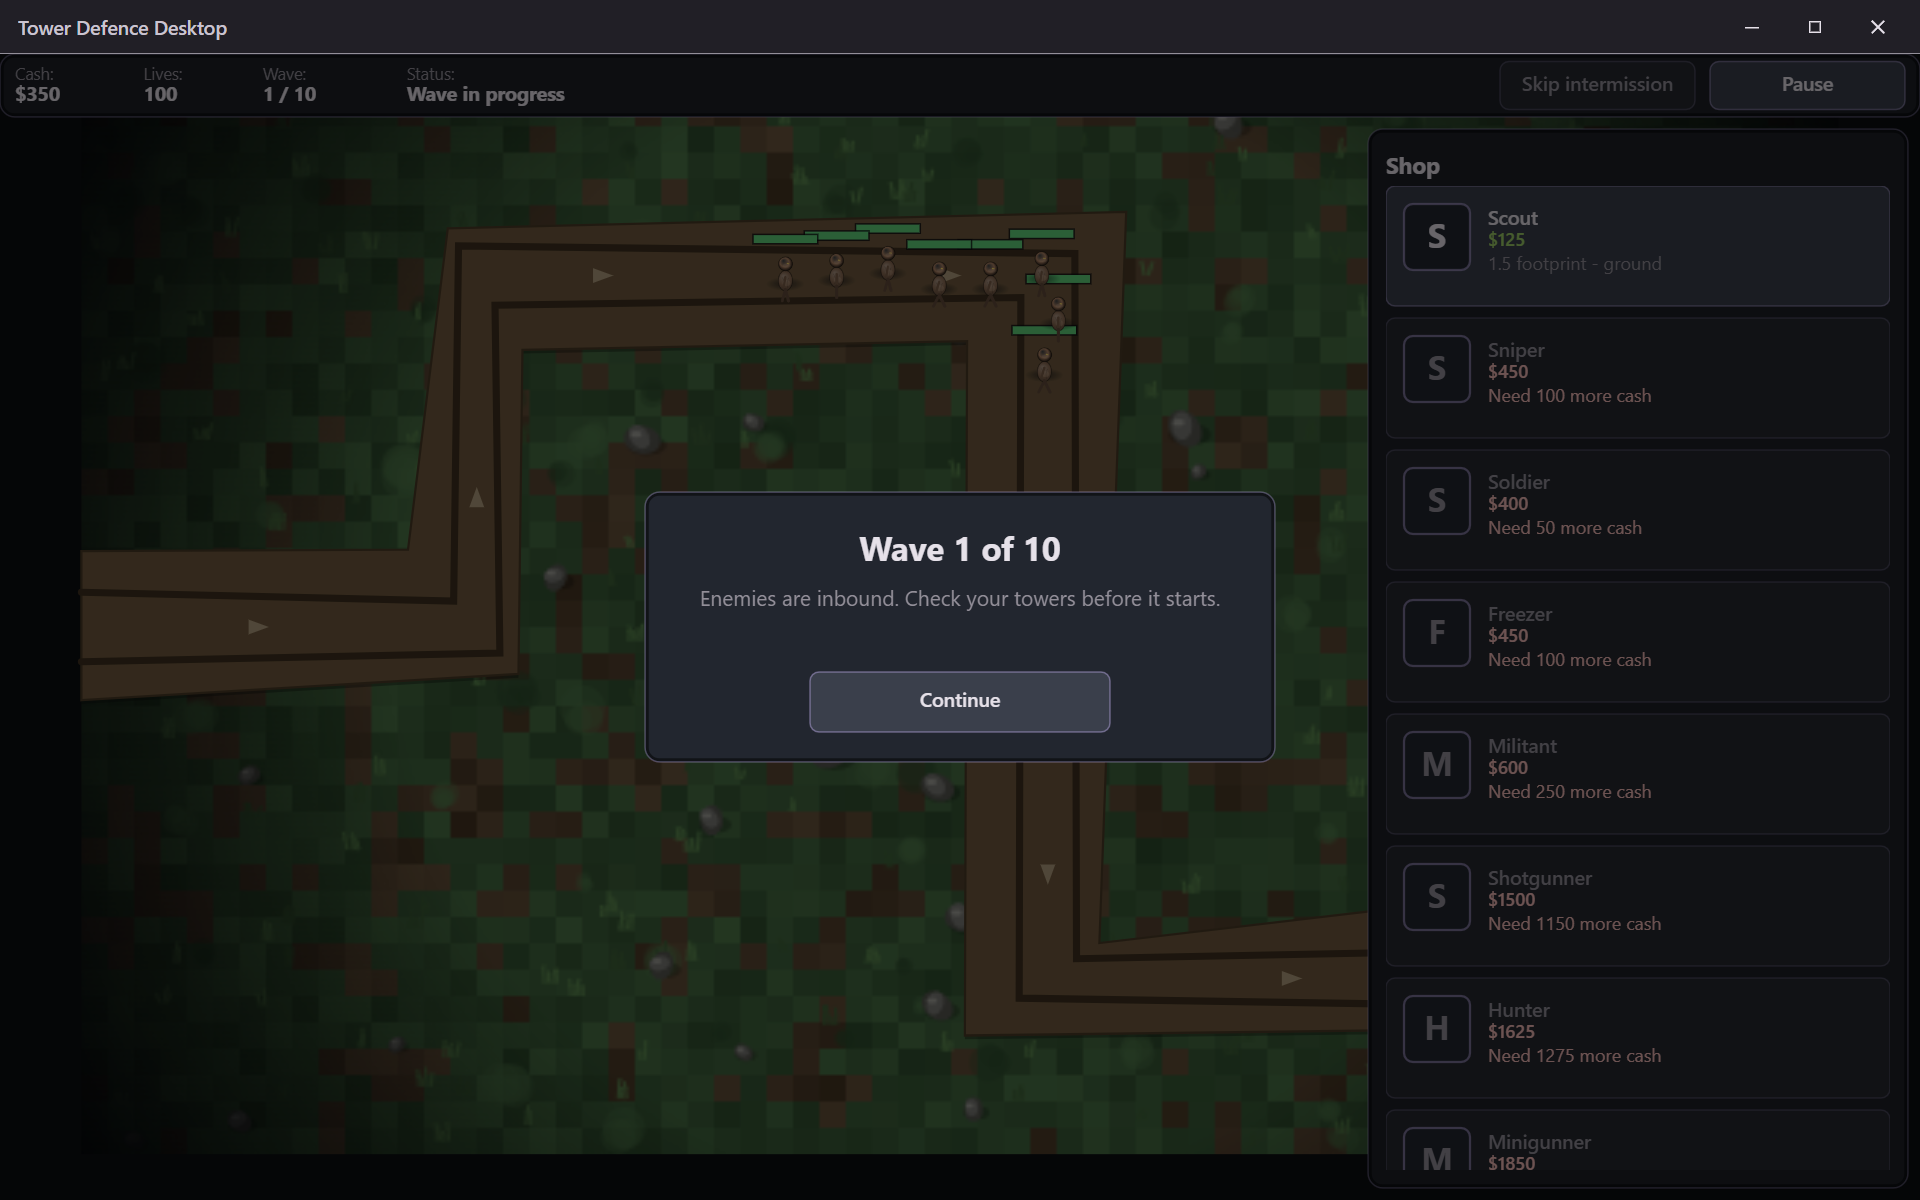
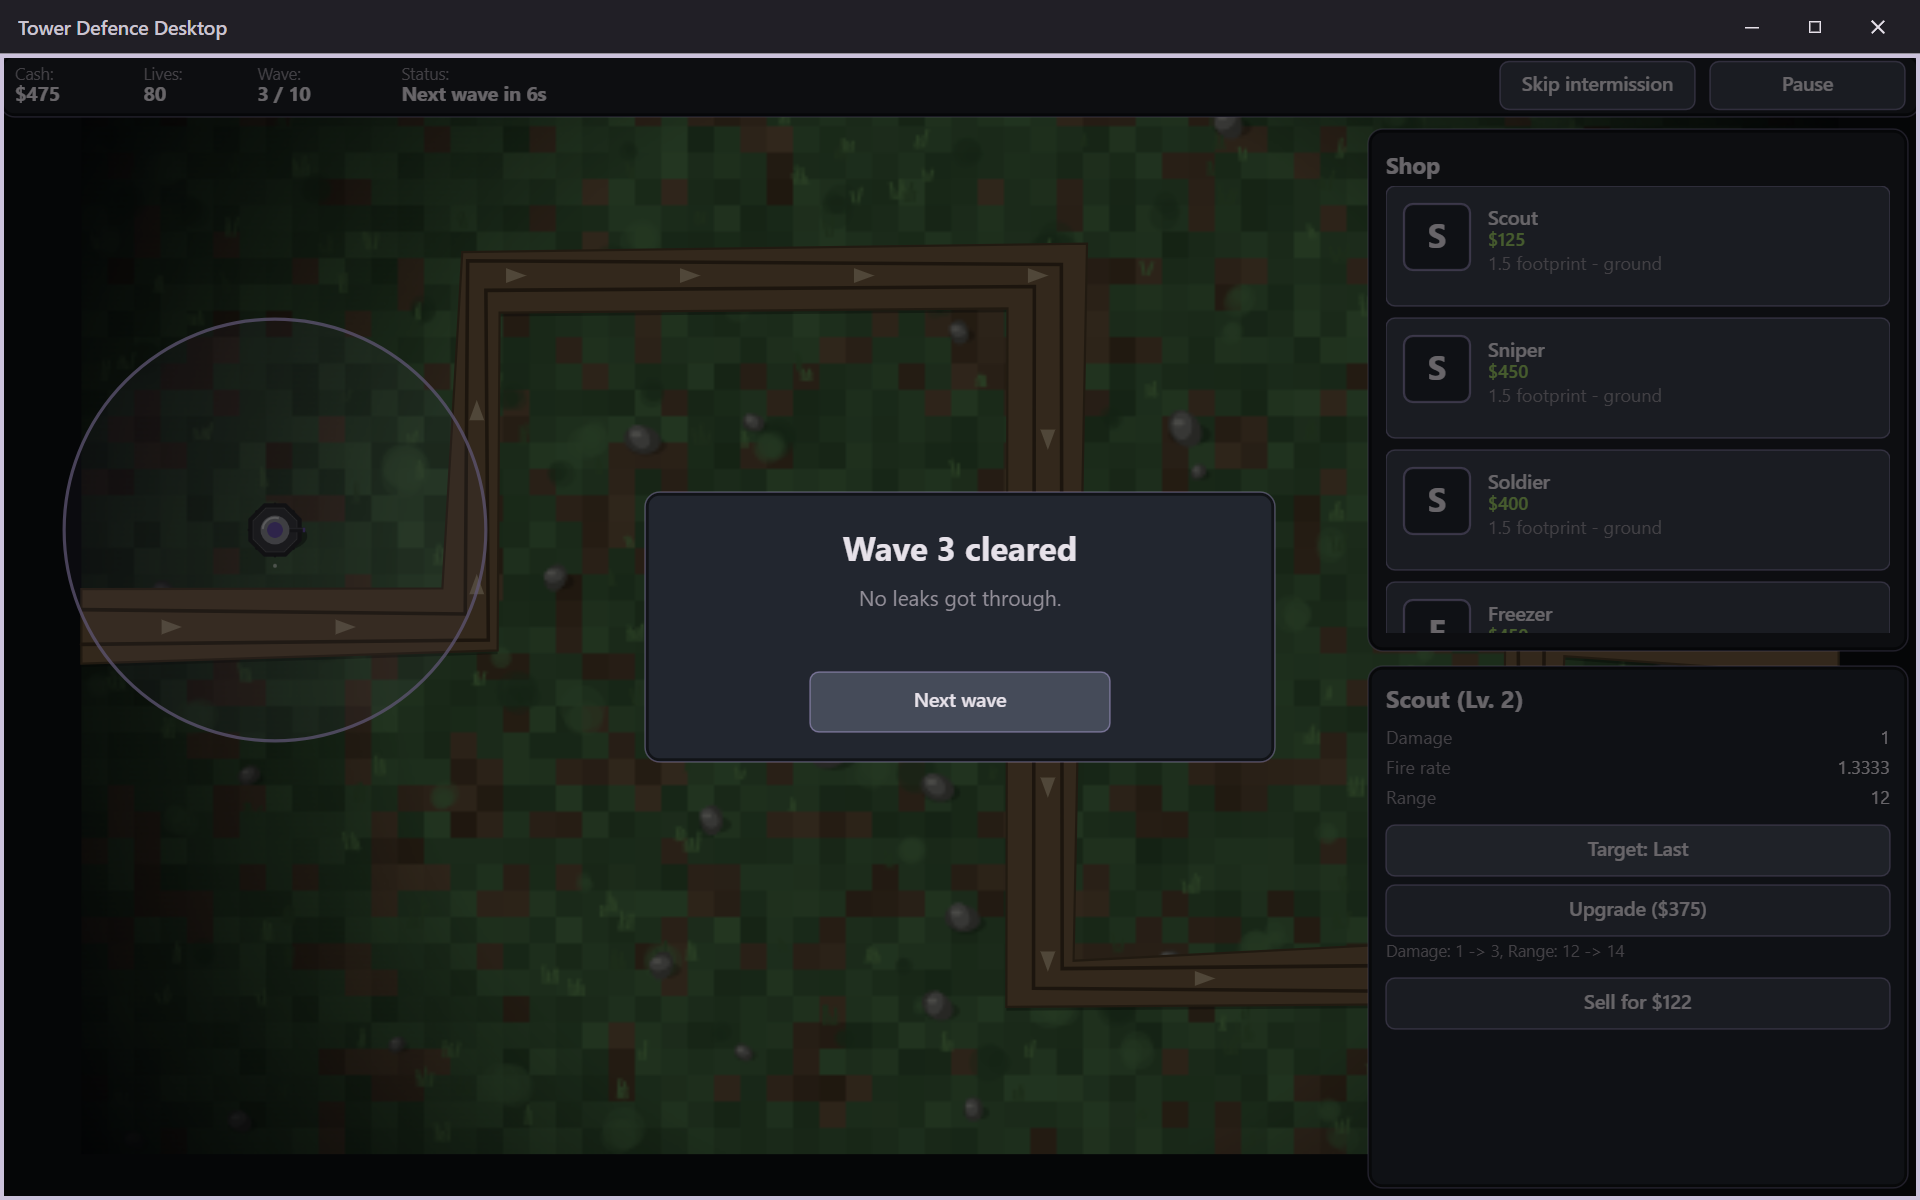
Stop the cleared-wave overlay claiming a perfect wave it did not have
It announced "No leaks got through" unconditionally, which made it right exactly
as often as the player happened to have a flawless wave. It was observed saying
it while the base had just lost twenty lives. An overlay that states something
untrue is worse than one that says nothing, because a player believes it and
stops watching their own life total.

It now reports the real number, counted as the difference between the running
total when the wave began and when it ended, so it describes the wave just
fought rather than the whole match.

One thing worth admitting rather than burying. The first check written for this
had a fallback branch for the case where the overlay copy could not be imported.
The copy could not be imported, so it took the branch, asserted nothing at all,
and passed. A check with an escape hatch finds the escape hatch. The copy is now
exported, the check imports it directly, there is no fallback, and restoring the
unconditional claim was watched turning it red.

Also verified by driving the real program rather than by reading it: placing a
tower, selecting it, upgrading it and cycling its targeting all work, the costs
and the disabled reasons are the real ones, and a modal overlay correctly
swallows a click instead of letting it fall through to the battlefield.

個「冇漏敵」嘅字係寫死嘅，所以佢啱嘅次數啱啱好等於玩家真係守得住嘅次數。
見過佢喺基地啱啱死咗二十條命嗰陣照樣咁講。而家報返真數。
仲有一件要認嘅事：第一版測試有個後備分支，結果真係行咗後備分支，
乜都冇 assert 就綠色收工。有後路嘅測試一定會行後路。

diff --git a/tests/hud/overlays.test.js b/tests/hud/overlays.test.js
@@ -2,6 +2,7 @@ import { test } from 'node:test';
 import assert from 'node:assert/strict';
 import { createFakeContext } from './fake-context.js';
 import { OverlayHud } from '../../src/render/hud/overlays.js';
+import { COPY } from '../../src/render/hud/overlays.js';
 
 const VIEWPORT = { x: 0, y: 0, width: 1200, height: 800 };
 
@@ -57,4 +58,27 @@ test('drawing kind: null after an overlay clears its accessibility control and i
   overlay.draw(ctx, VIEWPORT, { kind: null });
   assert.equal(overlay.accessibilityControls().length, 0);
   assert.equal(overlay.hitTest(600, 400), null);
+});
+
+// Added after the cleared-wave overlay announced "No leaks got through" while the base
+// had just lost twenty lives. It said it unconditionally, so it was right exactly as
+// often as the player happened to have a perfect wave.
+//
+// The first version of this check had a fallback branch for the case where the copy
+// was not importable. The copy was not importable, so it took the branch, asserted
+// nothing, and passed. There is no fallback here now: it imports the real copy or it
+// fails to run at all.
+test('the cleared-wave message reports the leaks that actually happened', () => {
+  const body = COPY.waveClear.body;
+
+  assert.match(body({ waveIndex: 1, leaked: 0, completionBonus: 0 }), /No leaks got through/);
+  assert.match(body({ waveIndex: 2, leaked: 1, completionBonus: 0 }), /One got through/);
+  assert.match(body({ waveIndex: 3, leaked: 7, completionBonus: 0 }), /7 got through/);
+  assert.doesNotMatch(
+    body({ waveIndex: 3, leaked: 7, completionBonus: 0 }),
+    /No leaks/,
+    'a wave that leaked seven may never claim none did',
+  );
+  assert.match(body({ waveIndex: 4, leaked: 2, completionBonus: 90 }), /Completion bonus: \$90/);
+  assert.match(body({ waveIndex: 4, leaked: 2, completionBonus: 90 }), /2 got through/);
 });

diff --git a/src/render/hud/overlays.js b/src/render/hud/overlays.js
@@ -19,7 +19,9 @@ const CARD_HEIGHT = 180;
 const PADDING = 20;
 const BUTTON_HEIGHT = 40;
 
-const COPY = {
+// Exported so a check can assert the exact wording without a canvas. A check that
+// cannot reach the thing it is checking finds a way to pass anyway.
+export const COPY = {
   waveStart: {
     headline: (p) => `Wave ${p.waveIndex} of ${p.totalWaves || p.waveIndex}`,
     body: () => 'Enemies are inbound. Check your towers before it starts.',
@@ -27,7 +29,20 @@ const COPY = {
   },
   waveClear: {
     headline: (p) => `Wave ${p.waveIndex} cleared`,
-    body: (p) => (p.completionBonus ? `No leaks got through. Completion bonus: $${p.completionBonus}.` : 'No leaks got through.'),
+    // Reports the real number. This line used to claim no leaks got through no matter
+    // what, and said it cheerfully while the base had just lost twenty lives. An
+    // overlay that states something untrue is worse than one that says nothing,
+    // because a player believes it and stops watching their own life total.
+    body: (p) => {
+      const leaked = p.leaked ?? 0;
+      const how =
+        leaked === 0
+          ? 'No leaks got through.'
+          : leaked === 1
+            ? 'One got through.'
+            : `${leaked} got through.`;
+      return p.completionBonus ? `${how} Completion bonus: $${p.completionBonus}.` : how;
+    },
     actionLabel: 'Next wave',
   },
   victory: {

diff --git a/src/render/hud/interface-layer.js b/src/render/hud/interface-layer.js
@@ -217,9 +217,20 @@ export class InterfaceLayer {
     }
     if (phase === this._lastPhase) return;
     if (phase === 'active' && this._lastPhase === 'intermission') {
+      // Remember the running leak total as the wave begins, so the cleared message
+      // can report what this wave cost rather than what the whole match has cost.
+      this._leaksAtWaveStart = snapshot.leakCount ?? 0;
       this._overlay = { kind: 'waveStart', payload: { waveIndex: snapshot.waveIndex ?? 0, totalWaves } };
     } else if (phase === 'intermission' && this._lastPhase === 'active') {
-      this._overlay = { kind: 'waveClear', payload: { waveIndex: snapshot.waveIndex ?? 0, completionBonus: snapshot.waveCompletionBonus ?? 0 } };
+      const leaked = Math.max(0, (snapshot.leakCount ?? 0) - (this._leaksAtWaveStart ?? 0));
+      this._overlay = {
+        kind: 'waveClear',
+        payload: {
+          waveIndex: snapshot.waveIndex ?? 0,
+          completionBonus: snapshot.waveCompletionBonus ?? 0,
+          leaked,
+        },
+      };
     } else if (phase === 'victory') {
       this._overlay = { kind: 'victory', payload: { totalWaves } };
     } else if (phase === 'defeat') {
